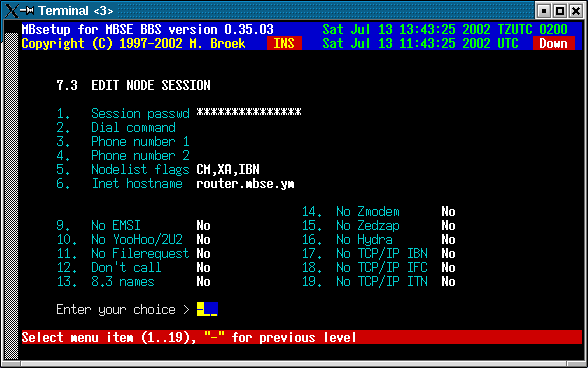
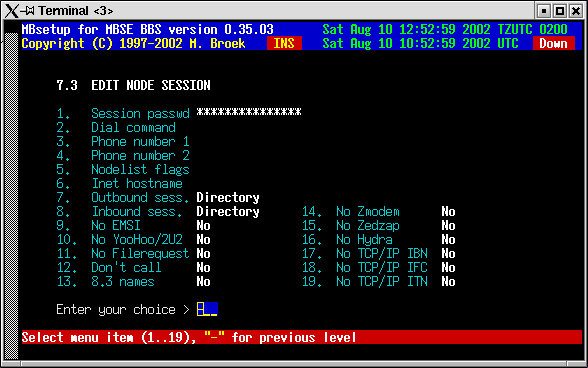
Updated nodes setup documentation

diff --git a/html/setup/nodes.html b/html/setup/nodes.html
@@ -12,7 +12,7 @@
 </HEAD>
 <BODY>
 <BLOCKQUOTE>
-<div align=right><h5>Last update 13-Jul-2002</h5></div>
+<div align=right><h5>Last update 10-Aug-2002</h5></div>
 
 <div align=center><H1>MBSE BBS Setup - Fidonet nodes.</H1></div>
 <P>
@@ -22,11 +22,11 @@
 Unlike many other bbs packages, for each node you need only one record. If you
 have a relation with a node for one network with costsharing, and other 
 networks without costsharing you need two records for that node. For each node
-you can setup the aka's, mail, files and session handshake. There are eight
+you can setup the aka's, mail, files and session handshake. There are nine
 screens for each node.
 <p>&nbsp;<p>
 
-<H3>Edit general setup</H3>
+<H3>1. Edit general setup</H3>
 <p>
 This screen has the general information for the node. The contact info fields are
 just for private use, these fields are only used in this screen. The Outbox dir is for
@@ -74,47 +74,75 @@ deleted.</td></tr>
 <IMG SRC="../images/nodes1.png">
 <P>&nbsp;<p>
 
-<H3>Edit nodes aka's</H3>
+<H3>2. Edit nodes aka's</H3>
 <p>
 In this screen you can setup 20 aka's for the node.
 <p>
 <IMG SRC="../images/nodes2.png">
 <P>&nbsp;<p>
 
-<H3>Edit node session</H3>
+<H3>3. Edit node session</H3>
 <p>
 In this screen you can setup the session defaults. Items 7 and 8 will be added later.
 <p><table>
-<tr><th nowrap align=left valign=top>Session passwd</th><td>This is the mailer session password.
-<tr><th nowrap align=left valign=top>Dial command</th><td>You can put an override here for the normal dial command. If you leave this empty the command from the modem setup is used.
-<tr><th nowrap align=left valign=top>Phone number 1</th><td>An alternative phone number/ip address to dial.
-<tr><th nowrap align=left valign=top>Phone number 2</th><td>An alternative phone number/ip address to dial.  Use these above commands if the node has another phone number as mentioned in the nodelist.
+<tr><th nowrap align=left valign=top>Session passwd</th><td>This is the mailer
+session password.</td></tr>
+<tr><th nowrap align=left valign=top>Dial command</th><td>You can put an
+override here for the normal dial command. If you leave this empty the command
+from the modem setup is used.</td></tr>
+<tr><th nowrap align=left valign=top>Phone number 1</th><td>An alternative phone
+number/ip address to dial.</td></tr>
+<tr><th nowrap align=left valign=top>Phone number 2</th><td>An alternative phone
+number/ip address to dial.  Use these above commands if the node has another
+phone number as mentioned in the nodelist.</td></tr>
 <tr><th nowrap align=left valign=top>Nodelist flags</th><td>Override for the
 nodelist flags, the nodelist flags are completly ignored if you enter something
 here so make sure all flags you need are here. All aka's of this node will use
-the same flags. This can be usefull to force calling this node via the internet.
+the same flags. This can be usefull to force calling this node via the
+internet.</td></tr>
 <tr><th nowrap align=left valign=top>Inet hostname</th><td>The FQDN hostname or
 IP address of this node. This replaces the original system name from the
 nodelist and this is then used to make the internet TCP/IP connection. This can
-be usefull if the FQDN is not present in the nodelist.
-<tr><th nowrap align=left valign=top>No EMSI</th><td>Disable EMSI handshake.
-<tr><th nowrap align=left valign=top>No YooHoo/2U2</th><td>Disable FTSC-0006 handshake.
-<tr><th nowrap align=left valign=top>No Filerequest</th><td>Disable filerequest from this node.
-<tr><th nowrap align=left valign=top>Don't call</th><td>Do not call this node.
-<tr><th nowrap align=left valign=top>8.3 names</th><td>Set this if the node only accepts 8.3 filenames.
-<tr><th nowrap align=left valign=top>No Zmodem</th><td>Disable Zmodem protocol.
-<tr><th nowrap align=left valign=top>No Zedzap</th><td>Disable Zedzap protocol.
-<tr><th nowrap align=left valign=top>No Hydra</th><td>Disable Hydra protocol.
-<tr><th nowrap align=left valign=top>No TCP/IP IBN</th><td>Disbale TCP/IP IBN (binkp) protocol.
-<tr><th nowrap align=left valign=top>No TCP/IP IFC</th><td>Disable TCP/IP IFC (ifcico) protocol.
-<tr><th nowrap align=left valign=top>No TCP/IP ITN</th><td>Disable TCP/IP ITN (telnet) protocol.
+be usefull if the FQDN is not present in the nodelist.</td></tr>
+<tr><th nowrap align=left valign=top>Outbound sess.</th><td>Outbound session
+method, choices are <b>Direct</b> and <b>Directory</b>. Direct means normal
+classic mailer connections. Directory means that everything is put in a
+directory from which the other node can fetch the mail and files using ftp
+protocol.</td></tr>
+<tr><th nowrap align=left valign=top>Inbound sess.</th><td>Inbound session
+method, choices are <b>Direct</b> and <b>Directory</b>. Direct means normal
+classic mailer connections. Directory means that inbound mail and files are
+expected in a directory were it is stored by the node using ftp
+protocol.</td></tr>
+<tr><th nowrap align=left valign=top>No EMSI</th><td>Disable EMSI
+handshake.</td></tr>
+<tr><th nowrap align=left valign=top>No YooHoo/2U2</th><td>Disable FTSC-0006
+handshake.</td></tr>
+<tr><th nowrap align=left valign=top>No Filerequest</th><td>Disable filerequest
+from this node.</td></tr>
+<tr><th nowrap align=left valign=top>Don't call</th><td>Do not call this
+node.</td></tr>
+<tr><th nowrap align=left valign=top>8.3 names</th><td>Set this if the node only
+accepts 8.3 filenames.</td></tr>
+<tr><th nowrap align=left valign=top>No Zmodem</th><td>Disable Zmodem
+protocol.</td></tr>
+<tr><th nowrap align=left valign=top>No Zedzap</th><td>Disable Zedzap
+protocol.</td></tr>
+<tr><th nowrap align=left valign=top>No Hydra</th><td>Disable Hydra
+protocol.</td></tr>
+<tr><th nowrap align=left valign=top>No TCP/IP IBN</th><td>Disbale TCP/IP IBN
+(binkp) protocol.</td></tr>
+<tr><th nowrap align=left valign=top>No TCP/IP IFC</th><td>Disable TCP/IP IFC
+(ifcico) protocol.</td></tr>
+<tr><th nowrap align=left valign=top>No TCP/IP ITN</th><td>Disable TCP/IP ITN
+(telnet) protocol.</td></tr>
 </table>
 <p>
 <IMG SRC="../images/nodes3.png">
 <P>&nbsp;<p>
 
 
-<H3>Edit node - mail processing</H3>
+<H3>4. Edit node - mail processing</H3>
 <P>
 <p><table>
 <tr><th nowrap align=left valign=top>PKT password</th><td>The password to insert in .pkt files.
@@ -129,7 +157,7 @@ be usefull if the FQDN is not present in the nodelist.
 <IMG SRC="../images/nodes4.gif">
 <P>&nbsp;<p>
 
-<H3>Edit mail groups</H3>
+<H3>5. Edit mail groups</H3>
 <P>
 Here you can tag which mail groups are available for this node. Note that all
 groups are visible here, even for networks this node has no aka's in. Be 
@@ -138,7 +166,7 @@ carefull not to allow a node to connect areas from networks he has no aka in.
 <IMG SRC="../images/nodes5.gif">
 <P>&nbsp;<p>
 
-<H3>File setup</H3>
+<H3>6. File setup</H3>
 <P>
 <p><table>
 <tr><th nowrap align=left valign=top>Files password</th><td>The password for .tic files.
@@ -162,14 +190,164 @@ carefull not to allow a node to connect areas from networks he has no aka in.
 <IMG SRC="../images/nodes6.gif">
 <P>&nbsp;<p>
 
-<H3>File groups</H3>
+<H3>7. File groups</H3>
 <P>
 The same story as for mail groups is true for the file groups.
 <P>
 <IMG SRC="../images/nodes7.png">
 <P>&nbsp;<p>
 
-<H3>Statistics</H3>
+<H3>8. Directory session</H3>
+<P>
+Setup in this screen is needed if you selected Inbound and or Outbound session
+as Directory session. The node is then getting and bringing mail using the ftp
+protocol and no normal mailer connects are being used anymore.
+This may be a good solution for points, they only need a simple mailreader and a
+tosser. The mail is transferred by the <b>mbfido</b> program, during the toss or
+tic command after the normal inbound is processed <b>mbfido</b> will look for nodes inbound
+directories to process. When mail is added to the outbound, mail for nodes with
+directory sessions is not stored in the normal Binley Style Outbound but in the
+session outbound directory.<br>
+You need to setup a ftp account for this node and the best thing is to
+set this up so that the other node is forced in a chroot environment, ie. make
+it so that the node only sees his own directories and cannot leave that. The ftp
+account needs to be a member of group bbs because mbfido needs access to the
+files as well as the node. The nodes account needs also to be a member of group
+bbsftp for the chroot environment.
+The node needs umask 002 so that files that he puts
+there will have group read/write access. During toss mbfido also stores the
+files with group read/write access so that the node can remove the files when he
+has fetched all files. Directory locking is supported and is compatible with
+other mailers that support ftp. Here is a small sample of protftp.conf for use
+with directory sessions:
+<pre>
+# This is /etc/proftpd.conf for use with mbsebbs ftp mail
+# sessions and anonymous ftp access.
+# It assumes that you have a user/group "nobody" and "ftp" 
+# for normal/anonymous operation.
+# It also assumes you have a group bbsftp were ftp mail users
+# must be a member of.
+#
+ServerName			"Seaport ProFTPD server"
+ServerType			inetd
+DefaultServer			on
+#
+# Port 21 is the standard FTP port.
+Port				21
+# Umask 002 is to force new dirs and files to be group writable.
+Umask				002
+#
+# To prevent DoS attacks, set the maximum number of child processes
+# to 30.
+MaxInstances			30
+#
+# Set the user and group that the server normally runs at.
+User				nobody
+Group				nogroup
+#
+SystemLog			/var/log/proftpd
+TransferLog			/var/log/xferlog
+#
+# Anonymous ftp and members of group bbsftp have a chroot environment.
+DefaultRoot	~ bbsftp
+#
+# Normally, we want files to be overwriteable.
+&lt;Directory /*&gt;
+  AllowOverwrite		on
+&lt;/Directory&gt;
+#
+# A basic anonymous FTP server configuration.
+# To enable this, remove the user ftp from /etc/ftpusers.
+&lt;Anonymous ~ftp&gt;
+  RequireValidShell		off
+  User				ftp
+  Group				ftp
+  # We want clients to be able to login with "anonymous" as well as "ftp"
+  UserAlias			anonymous ftp
+  #
+  # Limit the maximum number of anonymous logins
+  MaxClients			50
+  #
+  # We want 'welcome.msg' displayed at login, and '.message' displayed
+  # in each newly chdired directory.
+  DisplayLogin			welcome.msg
+  DisplayFirstChDir		.welcome
+  DisplayReadme			README
+  #
+  # Display .dotfiles and .dirs
+  LsDefaultOptions		"-a"
+  #
+  # Limit WRITE everywhere in the anonymous chroot
+  &lt;Limit WRITE&gt;
+    DenyAll
+  &lt;/Limit&gt;
+  #
+  # An upload directory that allows storing files but not retrieving
+  # or creating directories.
+  &lt;Directory incoming/*&gt;
+     &lt;Limit READ&gt;
+       DenyAll
+     &lt;/Limit&gt;
+
+     &lt;Limit STOR&gt;
+       AllowAll
+     &lt;/Limit&gt;
+  &lt;/Directory&gt;
+  #
+&lt;/Anonymous&gt;
+</pre>
+Here are some examples to create an account, first create the extra group
+bbsftp:
+<pre>
+groupadd bbsftp
+</pre>
+Then create accounts like this:
+<pre>
+useradd -g bbs -G bbsftp -d /opt/mbse/var/bbsftp/irex -s /bin/bash -c "FTP Mail account" irex
+</pre>
+Then give the node a password for the ftp login. Note that this account has a
+shell, proftpd needs a valid shell to allow access. If the node tries to telnet
+to your bbs he can't login with this account if you use <b>mblogin</b>, this is
+because the node is not in the bbs userfile. If you system allows it, the node
+can access the shell using rlogin or ssh.<br>
+Now the items to setup for the directory sessions:
+<p><table>
+<tr><th nowrap align=left valign=top colspan=2>Outbound settings</th></tr>
+<tr><th nowrap align=left valign=top>Files path</th><td>The path were to store
+the outbound mail and files.</td></tr>
+<tr><th nowrap align=left valign=top>Check for lock</th><td>If we need to check
+for a lockfile before adding files.</td></tr>
+<tr><th nowrap align=left valign=top>Wait clear lock</th><td>Wait for the lock
+to clear if present or not. If set to yes and there is a lock created by the
+node then mbfido will wait for maximum 10 minutes for the lock to disappear. If
+set to no, mbfido skips this node and will add mail and files at a later time.
+<tr><th nowrap align=left valign=top>Check lockfile</th><td>The full filename
+and path of the lockfile to check for.</td></tr>
+<tr><th nowrap align=left valign=top>Create lock</th><td>If mbfido should create
+a lock during the time it will add mail and files.</td></tr>
+<tr><th nowrap align=left valign=top>Create lockfile</th><td>The full filename
+and path of the lockfile to create.</td></tr>
+<tr><th nowrap align=left valign=top colspan=2>Inbound settings</th></tr>
+<tr><th nowrap align=left valign=top>Files path</th><td>The path from were to 
+get the inbound mail and files.</td></tr>
+<tr><th nowrap align=left valign=top>Check for lock</th><td>If we need to check
+for a lockfile before getting files.</td></tr>
+<tr><th nowrap align=left valign=top>Wait clear lock</th><td>Wait for the lock
+to clear if present or not. If set to yes and there is a lock created by the
+node then mbfido will wait for maximum 10 minutes for the lock to disappear. If
+set to no, mbfido skips this node and will scan this directory at a later time.
+<tr><th nowrap align=left valign=top>Check lockfile</th><td>The full filename
+and path of the lockfile to check for.</td></tr>
+<tr><th nowrap align=left valign=top>Create lock</th><td>If mbfido should create
+a lock during the time it will get mail and files.</td></tr>
+<tr><th nowrap align=left valign=top>Create lockfile</th><td>The full filename
+and path of the lockfile to create.</td></tr>
+</table>
+<P>
+<IMG SRC="../images/nodes8.png">
+<P>&nbsp;<P>
+
+<H3>9. Statistics</H3>
 <P>
 In this statistics screen you can see the mail and files flow with this
 node. Values are stored for the current week, the previous week, the
@@ -177,7 +355,7 @@ current month and previous month and the overall total since you defined
 this node. There are actual 12 months of statistics stored in the nodes
 record, only 2 are visible.
 <P>
-<IMG SRC="../images/nodes8.gif">
+<IMG SRC="../images/nodes9.png">
 <P>
 
 <A HREF="./"><IMG SRC="../images/larrow.gif" ALT="Back" Border="0">Back to index</A>&nbsp;
